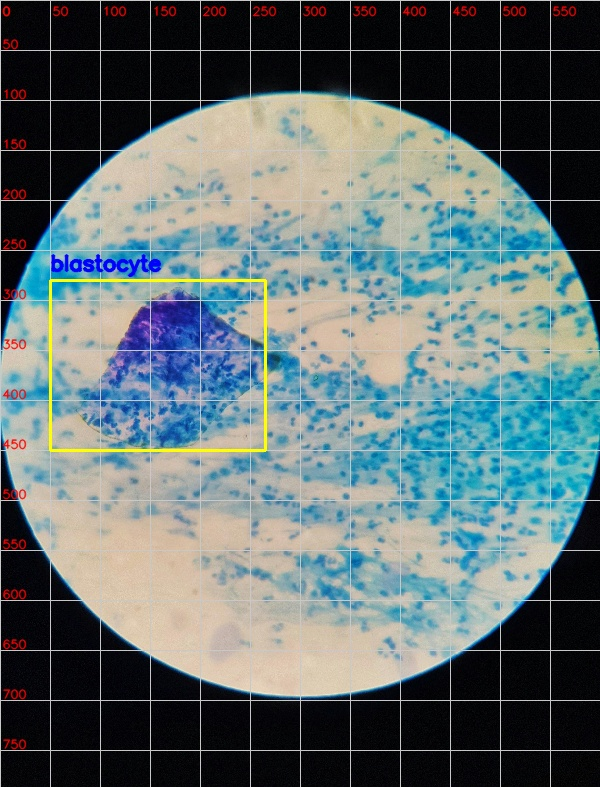
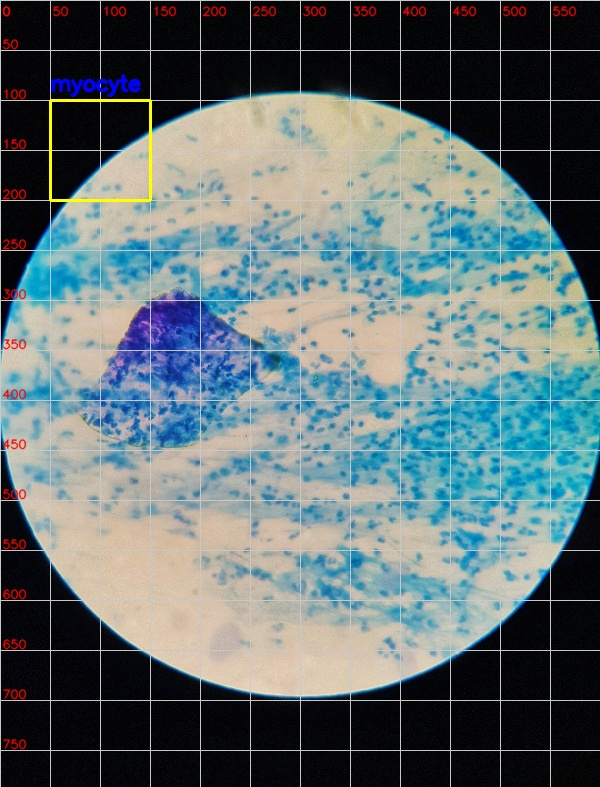
progress on mongo db

Changed region(s): [[0.06, 0.305, 0.45, 0.5794], [0.06, 0.0915, 0.27, 0.2745]]

diff --git a/project/AnnotationModule.py b/project/AnnotationModule.py
@@ -3,30 +3,47 @@ from time import sleep
 from QueueWorker import QueueWorker
 from RedisSubscriber import RedisSubscriber
 import redis
-from AnnotationGUI import annotate_image
+from AnnotationGUI import user_annotates_image
+from logger import make_logger
+from RedisPublisher import RedisPublisher
+from message_inheritance import AnnotationCompletedMessage
+
+logger = make_logger()
 
 # This is the primary function of the Annotation Module and is what the QueueWorker performs when a message arrives
-# {'type': 'publish',
-# 'topic': 'image_submitted',
-# 'event_id': 'IS_1',
-#  'payload': {'image_id': 'some_id',
-#              'path': 'photos\\some_id',
-#              'source': 'user_upload'}}
-def annotation_process(message_dict):
+def annotation_process(message_dict, annot_service_pub):
     # message is a dict NOT type Message! Cannot use Message class methods.
-    annotation_metadata = annotate_image(message_dict['payload']['path'])
-    return True
+    try:
+        annotation_metadata = user_annotates_image(message_dict['payload']['path'])
+        print("This is the annotation_metadata: ", annotation_metadata)
+        # image_metadata = message_dict['payload']
+        # inference_complete_msg = AnnotationCompletedMessage(image_metadata, annotation_metadata)
+        # annot_service_pub.publish_message("inference_completed", inference_complete_msg)
 
-# Make a Queue where you want any messages to be stored for worker to work on
-annotation_service_queue = queue.Queue(10)
+    except Exception:
+        logger.exception("Failed to process message: %r", message_dict)
+
 # Connect to same redis_client as other services
 redis_client = redis.Redis(host="localhost", port=6379, decode_responses=True)
+
+# Make a Queue where you want any messages to be stored for worker to work on
+annotation_service_sub_queue = queue.Queue(10)
 # become a subscriber on redis_client
-annotation_service = RedisSubscriber("Annotation Service", annotation_service_queue, redis_client)
+annotation_service_sub = RedisSubscriber("Annotation Service Subscriber", annotation_service_sub_queue, redis_client)
 # subscribe to image_submitted channel
-annotation_service.register_sub_channel("image_submitted")
-# Make a queueworker that gets any messages in the annotation_service_queue and performs the annotation_process on
-annotation_service_worker = QueueWorker(annotation_service_queue, annotation_process)
+annotation_service_sub.register_sub_channel("image_submitted")
+
+# become a publisher on redis_client
+annotation_service_pub = RedisPublisher("Annotation Service Publisher", redis_client)
+# create a channel called "inference_completed"
+annotation_service_pub.register_pub_channel("inference_completed")
+
+# Make a queueworker
+# queueworkers always get a queue to work out of
+# a function/task specific to the module to complete
+# a channel to publish when function/task is complete
+annotation_service_worker = QueueWorker(annotation_service_sub_queue, annotation_process, annotation_service_pub)
+
 # tell the queue worker to begin
 annotation_service_worker.start()
 sleep(30)

diff --git a/project/AnnotationDBModule.py b/project/AnnotationDBModule.py
@@ -1,29 +1,54 @@
 import queue
-
 from pymongo import MongoClient
 from RedisSubscriber import RedisSubscriber
 import redis
 from QueueWorker import QueueWorker
 from time import sleep
+from RedisPublisher import RedisPublisher
+from message_inheritance import AnnotationStoredMessage
 
-client = MongoClient("mongodb://localhost:27017/")
-db = client["my_database"]
-collection = db["my_collection"]
+from logger import make_logger
 
-# This is the primary function of the Annotation Module and is what the QueueWorker performs when a message arrives
-def mongo_db_process(message_dict):
-    collection.insert_one(message_dict['payload'])
+logger = make_logger()
+
+
+# This is the primary function of the Annotation DB Module and is what the QueueWorker performs when a message arrives
+def mongo_db_process(message_dict, mong_db_service_pub):
+    # message is a dict NOT type Message! Cannot use Message class methods.
+    try:
+
+        collection.insert_one(message_dict['payload'])
+        #annotation_stored_msg = AnnotationStoredMessage(message_dict['payload'])
+        #mong_db_service_pub.publish_message("annotation_stored", annotation_stored_msg)
+    except Exception:
+        logger.exception("Failed to process message: %r", message_dict)
+
+# Connect to same redis_client as other services
+redis_client = redis.Redis(host="localhost",port=6379,decode_responses=True)
 
 # Make a Queue where you want any messages to be stored for worker to work on
 mongo_db_queue = queue.Queue(10)
-# Connect to same redis_client as other services
-redis_client = redis.Redis(host="localhost",port=6379,decode_responses=True)
 # become a subscriber on redis_client
-mongo_db_service = RedisSubscriber("Mongo Database", mongo_db_queue, redis_client)
+mongo_db_service_sub = RedisSubscriber("Mongo Database", mongo_db_queue, redis_client)
 # subscribe to inference_completed channel
-mongo_db_service.registered_sub_channel("inference_completed")
-# Make a queueworker that gets any messages in the annotation_service_queue and performs the annotation_process on
-annotation_service_worker = QueueWorker(mongo_db_queue, mongo_db_process)
+mongo_db_service_sub.register_sub_channel("inference_completed")
+
+# become a publisher on redis_client
+mongo_db_service_pub = RedisPublisher("Annotation DB Publisher", redis_client)
+# create a channel called "inference_completed"
+mongo_db_service_pub.register_pub_channel("annotation_stored")
+
+# Set up Document DB (Mongo)
+client = MongoClient("mongodb://localhost:27017/")
+db = client["annotation_db_01"]
+collection = db["table_01"]
+
+# Make a queueworker
+# queueworkers always get a queue to work out of
+# a function/task specific to the module to complete
+# a channel to publish when function/task is complete
+annotation_service_worker = QueueWorker(mongo_db_queue, mongo_db_process, mongo_db_service_pub)
+
 # tell the queue worker to begin
 annotation_service_worker.start()
 sleep(30)

diff --git a/project/AnnotationGUI.py b/project/AnnotationGUI.py
@@ -36,9 +36,10 @@ def add_coordinate_grid(img, step=50):
 
 # primary function for Annotation Module: displays image, gathers points from user, draws box
 # basic functionality from OpenCV example
-def annotate_image(image_path: str):
+def user_annotates_image(image_path: str):
     # takes the path listed in ImageSubmittedMessage(Message)
     img = cv2.imread(image_path)
+    annotation_metadata = {}
 
     if img is None:
         print("Could not load image.")
@@ -97,13 +98,20 @@ def annotate_image(image_path: str):
                 print(f"image_metadata for image {name}: upper_corner_x: {upper_corner_x}, upper_corner_y: {upper_corner_y}, lower_corner_x: {lower_corner_x}, lower_corner_y: {lower_corner_y}, annotation_label: {annotation_label}")
                 #"image_metadata": image_metadata,
                 #"annotation_metadata": annotation_metadata,
-
+                annotation_metadata["name"] = name
+                annotation_metadata["upper_corner_x"] = upper_corner_x
+                annotation_metadata["upper_corner_y"] = upper_corner_y
+                annotation_metadata["lower_corner_x"] = lower_corner_x
+                annotation_metadata["lower_corner_y"] = lower_corner_y
+                annotation_metadata["annotation_label"] = annotation_label
             else:
                 print("Failed to save image.")
 
+            # for accepted case, will exit
             cv2.destroyAllWindows()
-            return success
+            return annotation_metadata
 
+        # for rejected case, will try again
         cv2.destroyWindow("Annotation Preview")
 
 

diff --git a/project/QueueWorker.py b/project/QueueWorker.py
@@ -1,24 +1,19 @@
 import queue
 import threading
-import logging
 
-# move to main to configure for all modules
-logging.basicConfig(
-    level=logging.INFO,
-    format="%(asctime)s [%(threadName)s] %(message)s"
-)
-# creates a logger named after module
-logger = logging.getLogger(__name__)
+from logger import make_logger
+
+logger = make_logger()
 
 class QueueWorker:
-    def __init__(self, input_queue: queue.Queue, process_function):
+    def __init__(self, input_queue: queue.Queue, process_function, service_pub_channel):
         self.input_queue = input_queue
         self._stop_event = threading.Event()
         self._thread = threading.Thread(target=self._run, daemon=True)
         # here is the function object itself; store it and call it later
         # vs process_function() call it right now
         self._process_function = process_function
-
+        self._service_pub_channel = service_pub_channel
 
     def start(self):
         self._thread.start()
@@ -53,4 +48,4 @@ class QueueWorker:
 
     def _process(self, msg):
         # TODO: validate this function
-        self._process_function(msg)
+        self._process_function(msg, self._service_pub_channel)

diff --git a/project/RedisPublisher.py b/project/RedisPublisher.py
@@ -1,17 +1,12 @@
 import redis
 from message import Message
-import logging
 
 # r is Redis Client. Thread safe and okay to share across modules.
 # r = redis.Redis(host='localhost', port=6379, decode_responses=True)
 
-# move to main to configure for all modules
-logging.basicConfig(
-    level=logging.INFO,
-    format="%(asctime)s [%(threadName)s] %(message)s"
-)
-# creates a logger named after module
-logger = logging.getLogger(__name__)
+from logger import make_logger
+
+logger = make_logger()
 
 class RedisPublisher:
     def __init__(self, module_name: str, redis_client: redis.Redis):

diff --git a/project/message_inheritance.py b/project/message_inheritance.py
@@ -1,8 +1,13 @@
 # class inheritance template generated by chatgpt and modified by me
 from message import Message
 
-
-# HERE ARE THE IMAGE SUBMIT MESSAGES
+# Example "image_submitted"
+# {'type': 'publish',
+# 'topic': 'image_submitted',
+# 'event_id': 'IS_1',
+#  'payload': {'image_id': 'some_id',
+#              'path': 'photos\\some_id',
+#              'source': 'user_upload'}}
 class ImageSubmittedMessage(Message):
     _counter = 0  # class-level counter (per child)
 

diff --git a/project/logger.py b/project/logger.py
@@ -1,0 +1,11 @@
+import logging
+
+def make_logger():
+    # move to main to configure for all modules
+    logging.basicConfig(
+        level=logging.INFO,
+        format="%(asctime)s [%(threadName)s] %(message)s"
+    )
+    # creates a logger named after module
+    logger = logging.getLogger(__name__)
+    return logger
